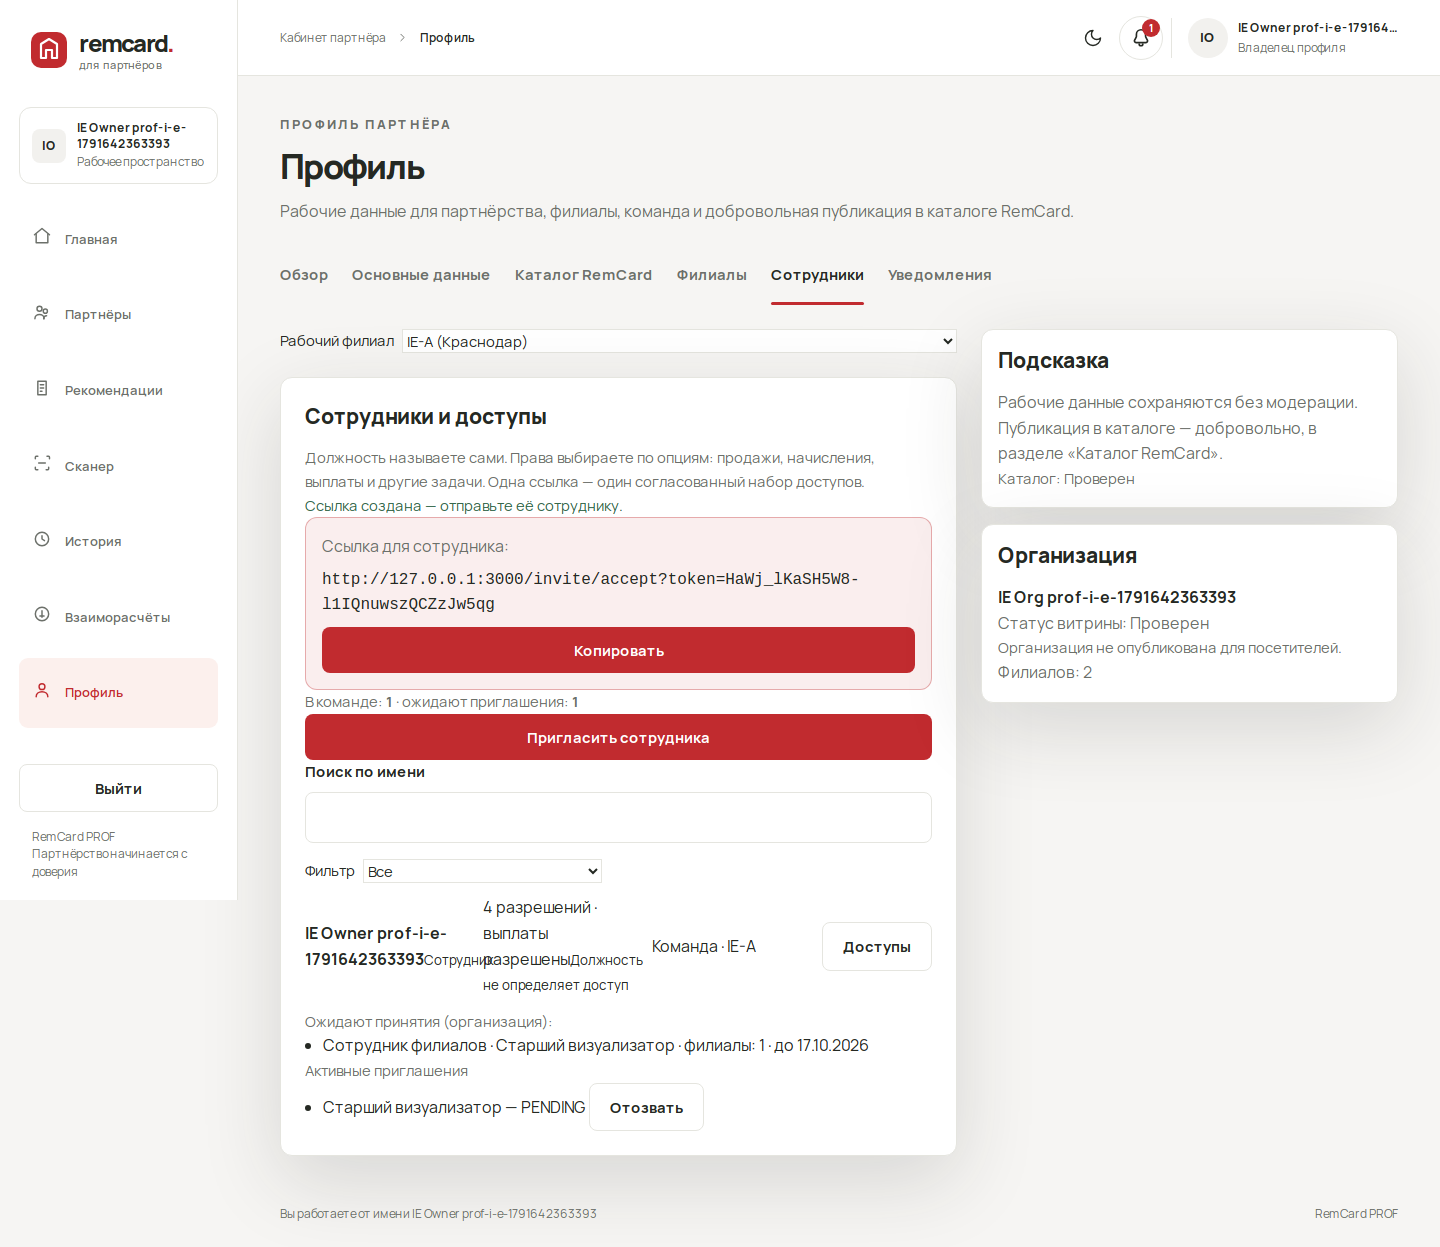
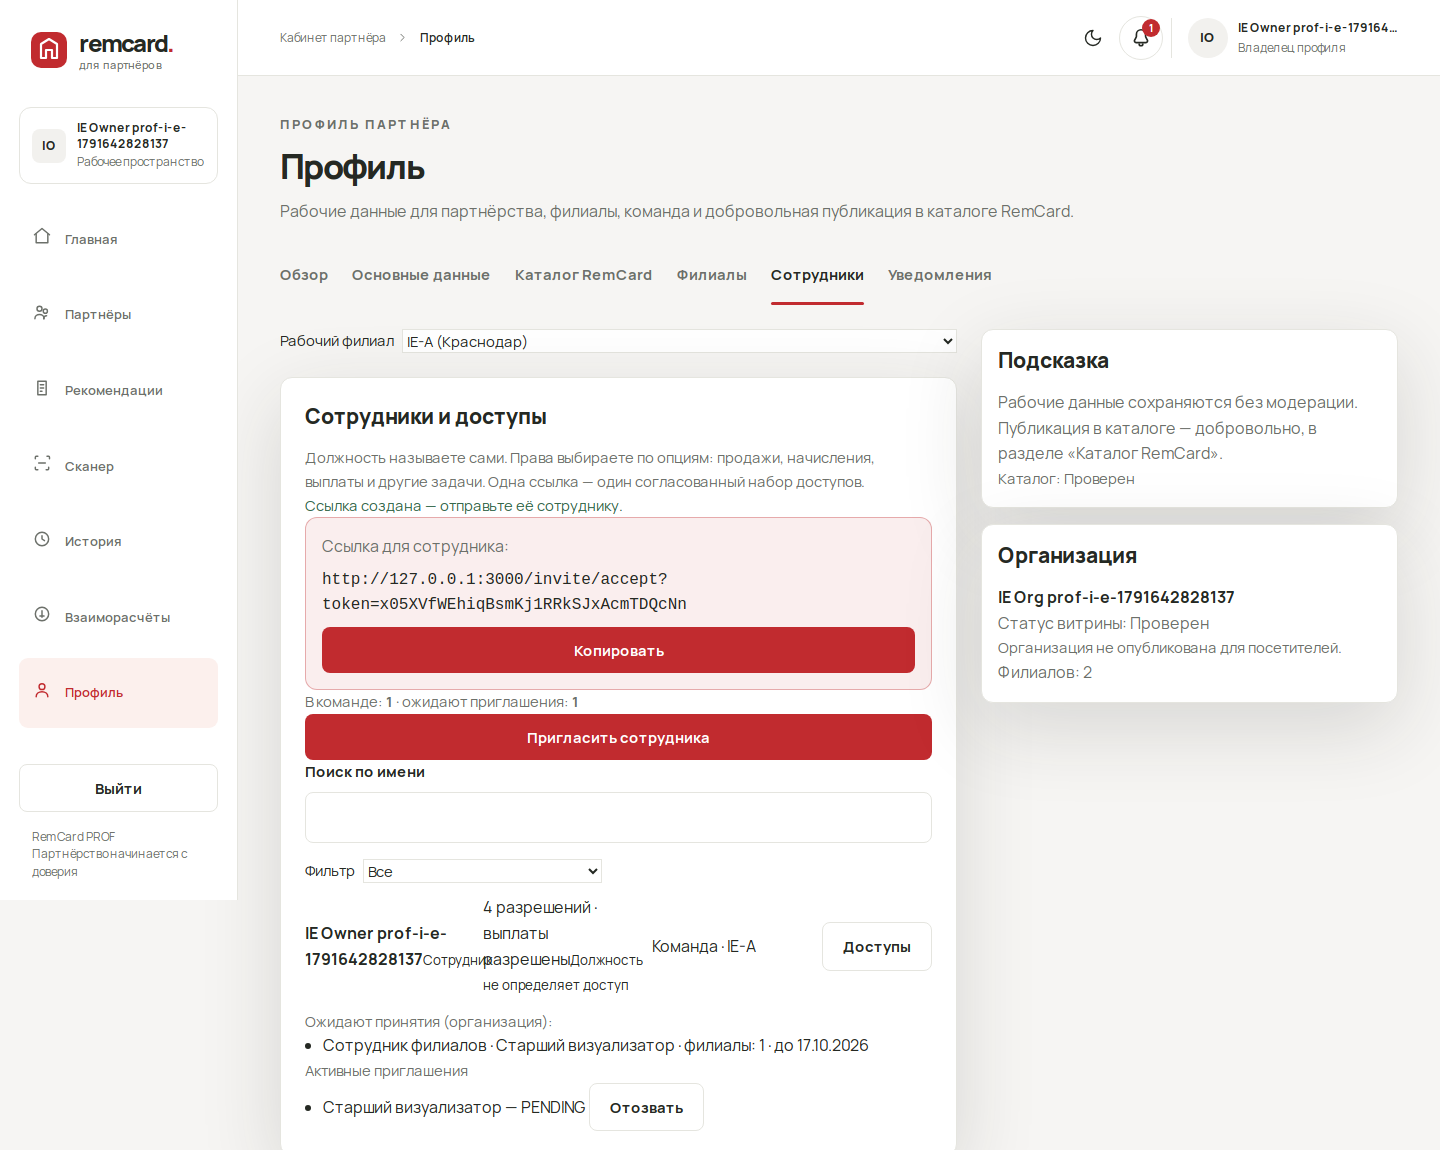
feat(prof-i): profile gates from server teamCapabilities
deriveProfileCabinetAccess reads teamCapabilities from pro context;
moderation notes remain PRO-only. Tests + employee-chain report.

diff --git a/src/lib/profile-cabinet-access.ts b/src/lib/profile-cabinet-access.ts
@@ -1,6 +1,12 @@
 import type { ProProfileResponse } from "@/lib/types";
 
 /** Subset of GET /api/pro/context used for profile UI gates (no privileged fetches before ready). */
+export type TeamCapabilitiesSnapshot = {
+  canOpenTeamSection: boolean;
+  canFetchEmployeesOverview: boolean;
+  canManageEmployeesByBranchId: Record<string, boolean>;
+};
+
 export type ProContextSnapshot = {
   role: string;
   branches?: Array<{ id: string; name: string; city: string }>;
@@ -8,31 +14,24 @@ export type ProContextSnapshot = {
   organization?: { id: string; name: string } | null;
   branchRole?: string | null;
   membershipKind?: string | null;
+  teamCapabilities?: TeamCapabilitiesSnapshot;
 };
 
 export type ProfileCabinetAccess = {
   /** Server (or switcher) resolved GET /api/pro/context successfully. */
   contextReady: boolean;
   proContext: ProContextSnapshot | null;
+  teamCapabilities: TeamCapabilitiesSnapshot | null;
   /**
-   * May call GET /api/pro/organization/employees-overview (navigator uses getProUser → PRO only).
+   * May call GET /api/pro/organization/employees-overview (scoped on server).
    * View vs manage is decided from overview payload (`canManageTeam`), not here.
    */
   canFetchEmployeesOverview: boolean;
-  /** Team tab may load roster / management UI (same upstream gate as overview fetch). */
+  /** Team tab may load roster / management UI. */
   canOpenTeamSection: boolean;
-  /** May call GET /api/pro/moderation-notes (PRO catalog actors only). */
+  /** May call GET /api/pro/moderation-notes (PRO catalog actors only; not tied to team). */
   canFetchModerationNotes: boolean;
 };
-
-const OVERVIEW_CONTEXT_ROLES = new Set([
-  "ORG_OWNER",
-  "BRANCH_MANAGER",
-  "SOLO_PARTNER",
-  "PARTNER_OWNER",
-  "PARTNER_EMPLOYEE",
-  "ORG_EMPLOYEE",
-]);
 
 export function deriveProfileCabinetAccess(input: {
   profile: ProProfileResponse;
@@ -40,20 +39,17 @@ export function deriveProfileCabinetAccess(input: {
   contextReady: boolean;
 }): ProfileCabinetAccess {
   const { profile, proContext, contextReady } = input;
-  const isProUser = profile.user.role === "PRO";
-  const ctxRole = proContext?.role ?? null;
+  const team = proContext?.teamCapabilities ?? null;
 
   const canFetchEmployeesOverview =
-    contextReady &&
-    isProUser &&
-    (ctxRole ? OVERVIEW_CONTEXT_ROLES.has(ctxRole) : false);
-
-  const canOpenTeamSection = canFetchEmployeesOverview;
-  const canFetchModerationNotes = isProUser;
+    contextReady && team?.canFetchEmployeesOverview === true;
+  const canOpenTeamSection = contextReady && team?.canOpenTeamSection === true;
+  const canFetchModerationNotes = profile.user.role === "PRO";
 
   return {
     contextReady,
     proContext,
+    teamCapabilities: team,
     canFetchEmployeesOverview,
     canOpenTeamSection,
     canFetchModerationNotes,
@@ -67,15 +63,48 @@ export function ownerProfileCabinetAccess(
     organization: { id: "org1", name: "Org" },
     branches: [],
     activeBranch: null,
+    teamCapabilities: {
+      canOpenTeamSection: true,
+      canFetchEmployeesOverview: true,
+      canManageEmployeesByBranchId: {},
+    },
   },
 ): ProfileCabinetAccess {
-  return {
-    contextReady: true,
+  return deriveProfileCabinetAccess({
+    profile: {
+      organization: null,
+      programs: [],
+      user: {
+        id: "u1",
+        publicId: "RC1",
+        displayName: "Owner",
+        city: "City",
+        specializations: [],
+        role: "PRO",
+        partnerType: "STORE",
+        description: null,
+        catalogStatus: "DRAFT",
+        isPublic: false,
+        rejectionReason: null,
+        badges: [],
+        photoUrl: null,
+        storeCategories: [],
+        areas: [],
+        website: null,
+        telegram: null,
+        whatsapp: null,
+        instagram: null,
+        vk: null,
+        max: null,
+        yandex: null,
+        publicEmail: null,
+        publicPhone: null,
+        showFullName: false,
+      },
+    },
     proContext,
-    canFetchEmployeesOverview: true,
-    canOpenTeamSection: true,
-    canFetchModerationNotes: true,
-  };
+    contextReady: true,
+  });
 }
 
 export function blockedTeamSectionMessage(): string {

diff --git a/src/lib/profile-cabinet-access.test.ts b/src/lib/profile-cabinet-access.test.ts
@@ -46,65 +46,77 @@ function profile(role: string, partnerType = "STORE"): ProProfileResponse {
   };
 }
 
-const ownerCtx: ProContextSnapshot = {
-  role: "ORG_OWNER",
-  organization: { id: "o1", name: "Shop" },
-  branches: [{ id: "b1", name: "A", city: "C" }],
-  activeBranch: null,
-};
-
 describe("deriveProfileCabinetAccess", () => {
-  it("owner PRO with ready context may fetch overview and moderation notes", () => {
+  it("uses server teamCapabilities for CLIENT team manager", () => {
+    const proContext: ProContextSnapshot = {
+      role: "ORG_TEAM_MEMBER",
+      organization: { id: "o1", name: "Shop" },
+      branches: [{ id: "bA", name: "A", city: "C" }],
+      teamCapabilities: {
+        canOpenTeamSection: true,
+        canFetchEmployeesOverview: true,
+        canManageEmployeesByBranchId: { bA: true },
+      },
+    };
     const access = deriveProfileCabinetAccess({
-      profile: profile("PRO"),
-      proContext: ownerCtx,
+      profile: profile("CLIENT"),
+      proContext,
       contextReady: true,
     });
     expect(access.canFetchEmployeesOverview).toBe(true);
     expect(access.canOpenTeamSection).toBe(true);
-    expect(access.canFetchModerationNotes).toBe(true);
+    expect(access.canFetchModerationNotes).toBe(false);
   });
 
-  it("CLIENT org team member must not fetch overview or moderation notes", () => {
+  it("CLIENT scan-only without teamCapabilities cannot open team", () => {
     const access = deriveProfileCabinetAccess({
       profile: profile("CLIENT"),
       proContext: {
         role: "ORG_TEAM_MEMBER",
         organization: { id: "o1", name: "Shop" },
-        branches: [{ id: "b1", name: "A", city: "C" }],
-        activeBranch: { id: "b1", name: "A", city: "C" },
-        branchRole: "SELLER",
+        branches: [{ id: "bA", name: "A", city: "C" }],
+        teamCapabilities: {
+          canOpenTeamSection: false,
+          canFetchEmployeesOverview: false,
+          canManageEmployeesByBranchId: {},
+        },
       },
       contextReady: true,
     });
-    expect(access.canFetchEmployeesOverview).toBe(false);
     expect(access.canOpenTeamSection).toBe(false);
     expect(access.canFetchModerationNotes).toBe(false);
   });
 
-  it("PRO branch manager keeps team/overview fetch", () => {
+  it("owner PRO keeps moderation notes without team coupling", () => {
     const access = deriveProfileCabinetAccess({
       profile: profile("PRO"),
       proContext: {
-        role: "BRANCH_MANAGER",
-        organization: { id: "o1", name: "Shop" },
-        branches: [{ id: "b1", name: "A", city: "C" }],
-        activeBranch: { id: "b1", name: "A", city: "C" },
+        role: "ORG_OWNER",
+        teamCapabilities: {
+          canOpenTeamSection: true,
+          canFetchEmployeesOverview: true,
+          canManageEmployeesByBranchId: {},
+        },
       },
       contextReady: true,
     });
-    expect(access.canFetchEmployeesOverview).toBe(true);
-    expect(access.canOpenTeamSection).toBe(true);
+    expect(access.canFetchModerationNotes).toBe(true);
   });
 
-  it("blocks privileged fetches until context is ready", () => {
+  it("blocks team until context is ready", () => {
     const access = deriveProfileCabinetAccess({
       profile: profile("PRO"),
-      proContext: ownerCtx,
+      proContext: {
+        role: "ORG_OWNER",
+        teamCapabilities: {
+          canOpenTeamSection: true,
+          canFetchEmployeesOverview: true,
+          canManageEmployeesByBranchId: {},
+        },
+      },
       contextReady: false,
     });
     expect(access.canFetchEmployeesOverview).toBe(false);
-    expect(access.canOpenTeamSection).toBe(false);
     expect(access.canFetchModerationNotes).toBe(true);
   });
 

diff --git a/src/components/profile/ProfileTeamSection.test.tsx b/src/components/profile/ProfileTeamSection.test.tsx
@@ -74,6 +74,11 @@ describe("ProfileTeamSection access gates", () => {
         role: "ORG_TEAM_MEMBER",
         organization: { id: "o1", name: "Shop" },
         branches: [{ id: "b1", name: "A", city: "C" }],
+        teamCapabilities: {
+          canOpenTeamSection: false,
+          canFetchEmployeesOverview: false,
+          canManageEmployeesByBranchId: {},
+        },
       },
       contextReady: true,
     });

diff --git a/src/components/profile/ProfileOverviewSection.test.tsx b/src/components/profile/ProfileOverviewSection.test.tsx
@@ -83,6 +83,11 @@ describe("ProfileOverviewSection counters", () => {
         role: "ORG_TEAM_MEMBER",
         organization: { id: "o1", name: "Shop" },
         branches: [],
+        teamCapabilities: {
+          canOpenTeamSection: false,
+          canFetchEmployeesOverview: false,
+          canManageEmployeesByBranchId: {},
+        },
       },
       contextReady: true,
     });

diff --git a/docs/PROF-I-INTEGRATION-STATUS.md b/docs/PROF-I-INTEGRATION-STATUS.md
@@ -52,9 +52,15 @@ PROF_E_PLATFORM_URL=http://127.0.0.1:3000 node scripts/prof-i-e-integration-brow
 
 **Last full E run:** all scenarios **PASS**; `exitCode: 0`; no console/page errors recorded (employee page had **no** `trackPage` on that run).
 
+## Team access contract — `teamCapabilities` (2026-10-10)
+
+Navigator `GET /api/pro/context` adds **`teamCapabilities`** (`canOpenTeamSection`, `canFetchEmployeesOverview`, `canManageEmployeesByBranchId` per branch). Platform **`deriveProfileCabinetAccess`** uses only this server payload (not `UserRole === PRO`). **`employees-overview`** uses `getProfCabinetUser` + scoped branch list: CLIENT only with `canManageEmployees`; PRO managers may view branch roster; manage per-branch flag; no org-wide leak; empty scope → **403**. Moderation notes stay **PRO-only**, unrelated to team.
+
+**Integration:** `prof-i-team-cabinet.integration.test.ts` — CLIENT team in A only, B hidden, revoke → 403 + context off, owner unchanged.
+
 ## Invite chain — employee `trackPage` closed (2026-10-10)
 
-**App fix:** server `GET /api/pro/context` on profile page → `deriveProfileCabinetAccess`; no `employees-overview` / `moderation-notes` for CLIENT org team without PRO overview roles; team tab shows access restriction instead of load errors. Owner / PRO branch manager unchanged.
+**App fix:** gated fetches above; scan-only CLIENT unchanged.
 
 Harness: `PROF_E_INVITE_CHAIN_ONLY=1`, strict `trackPage(employee)`. Expected deny = confirmed GET wallet/settlements **403** only.
 
